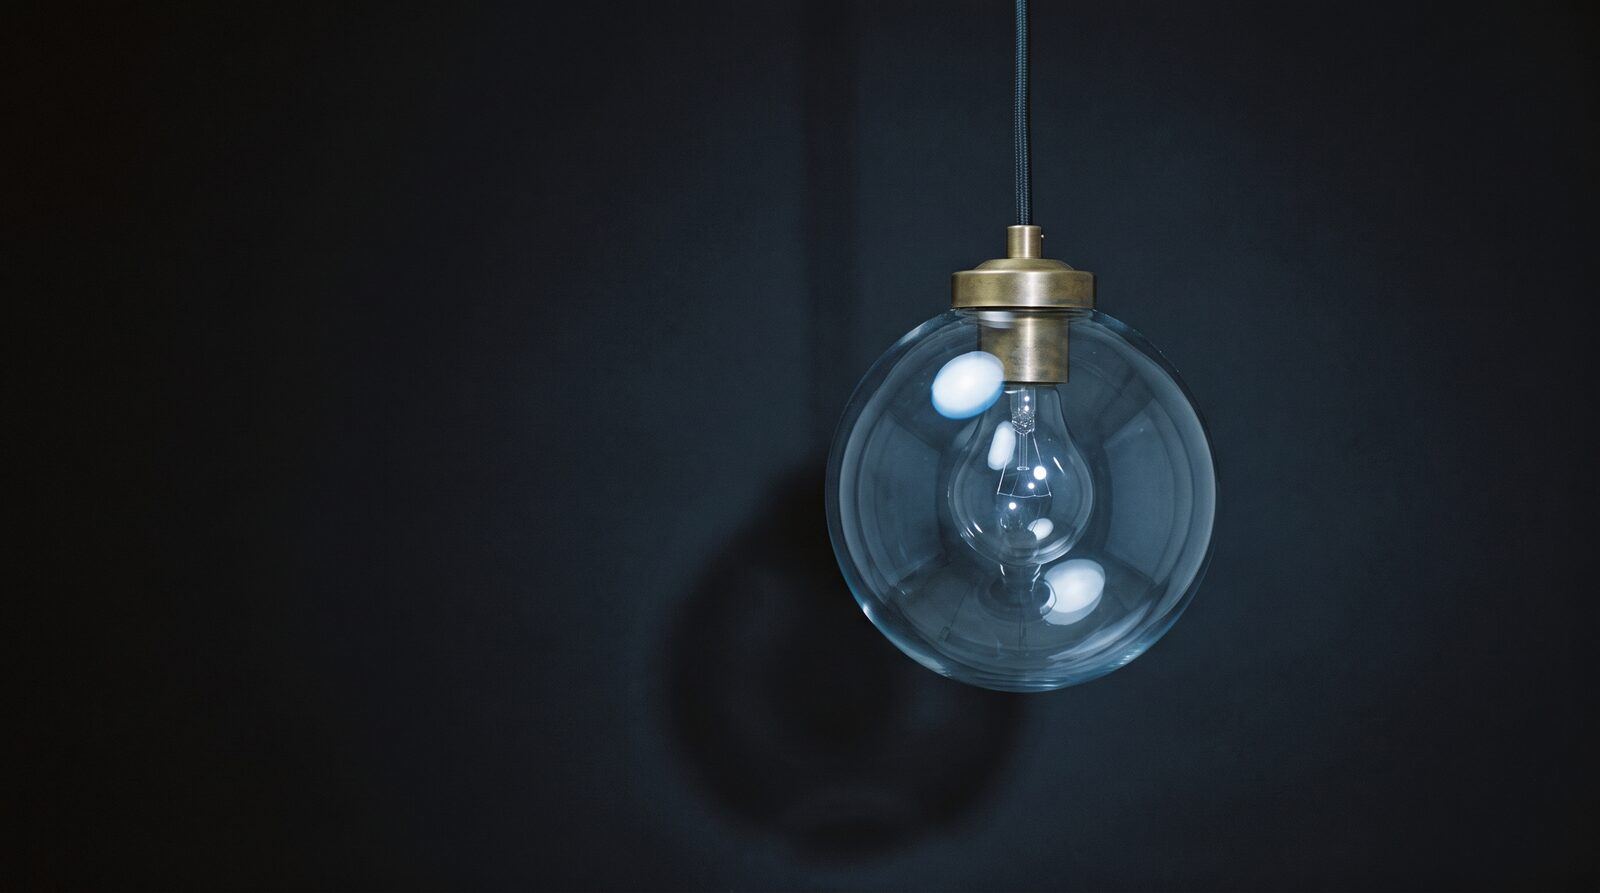
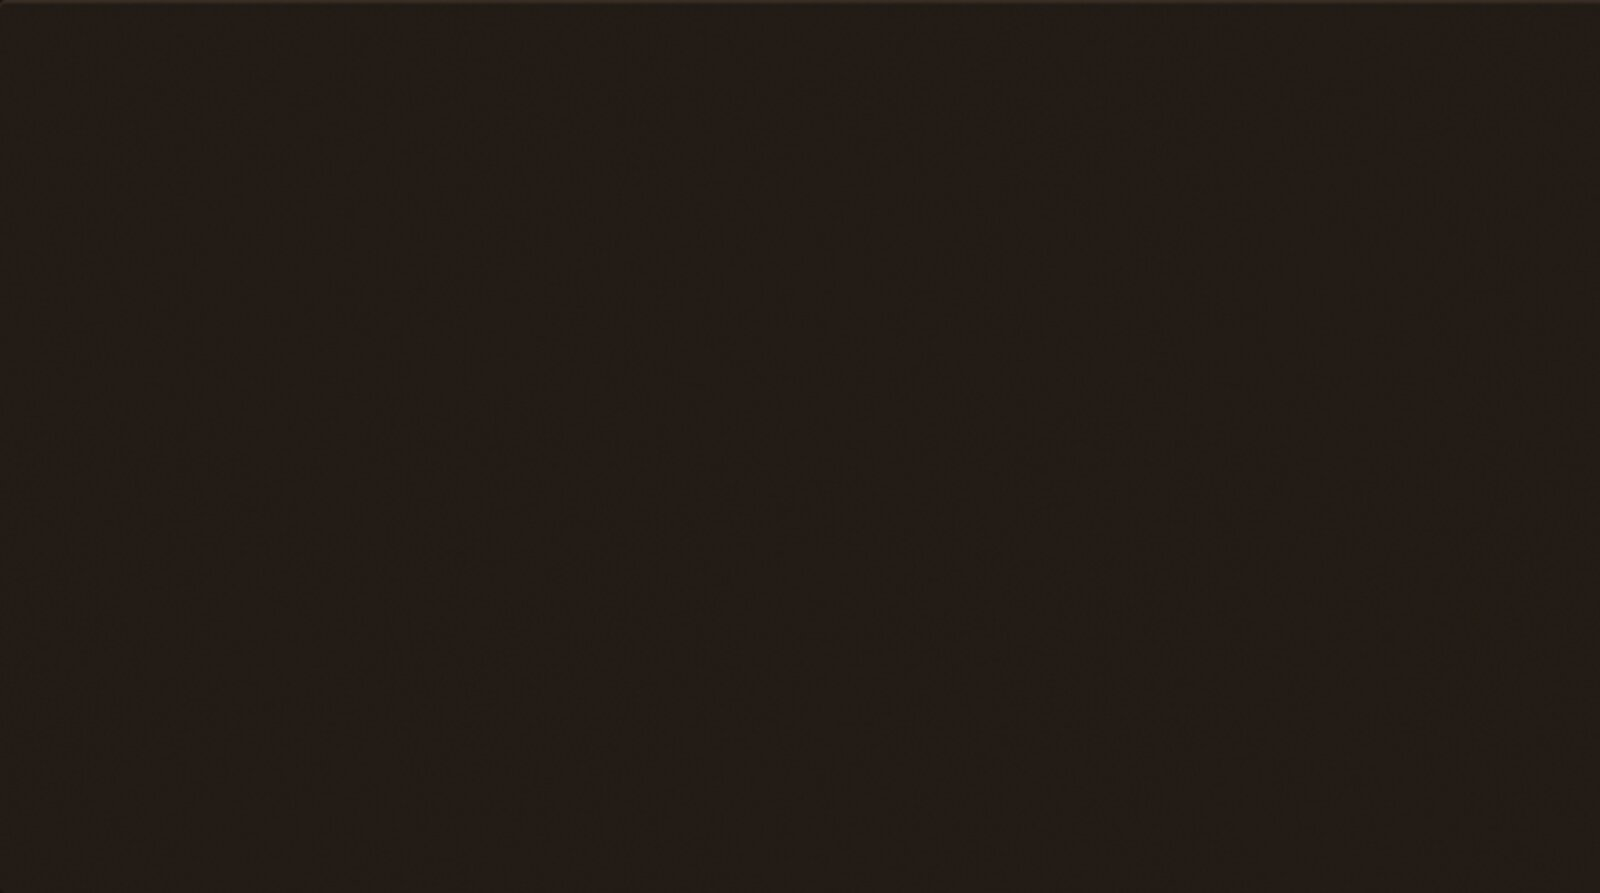
chore(recette): le parametre scene-capture pour produire le repli
Sans preserveDrawingBuffer, une capture d'ecran headless rend un canevas WebGL
vide — le tampon est recycle apres composition. Le parametre d'URL
?scene-capture l'active pour les seules sessions de recette : c'est lui qui
permet de produire l'image de repli DEPUIS la vraie scene, comme l'exige le
critere n.6 de la direction artistique. Absent en usage normal, cout nul.

Changed region(s): [[0.375, 0.0, 0.875, 1.0], [0.0, 0.0, 0.5312, 0.0302], [0.7188, 0.0, 1.0, 0.0302]]

diff --git a/src/scripts/mouvement/scene/moteur.ts b/src/scripts/mouvement/scene/moteur.ts
@@ -166,10 +166,17 @@ async function monterScene(
   const hauteur = zoneMesure.clientHeight;
 
   // --- Tranche 1 : le contexte graphique -------------------------------
+  // ?scene-capture : outil de RECETTE — sans preserveDrawingBuffer, une
+  // capture d'ecran headless rend un canevas vide (le tampon est recycle
+  // apres composition). Le parametre n'existe que pour produire l'image de
+  // repli depuis la vraie scene ; en usage normal il est absent et ne coute
+  // rien.
+  const capture = new URLSearchParams(window.location.search).has('scene-capture');
   const rendu = new WebGLRenderer({
     antialias: contrat.antialias,
     alpha: true,
     powerPreference: 'low-power',
+    preserveDrawingBuffer: capture,
   });
   rendu.setSize(largeur, hauteur);
   rendu.setPixelRatio(
